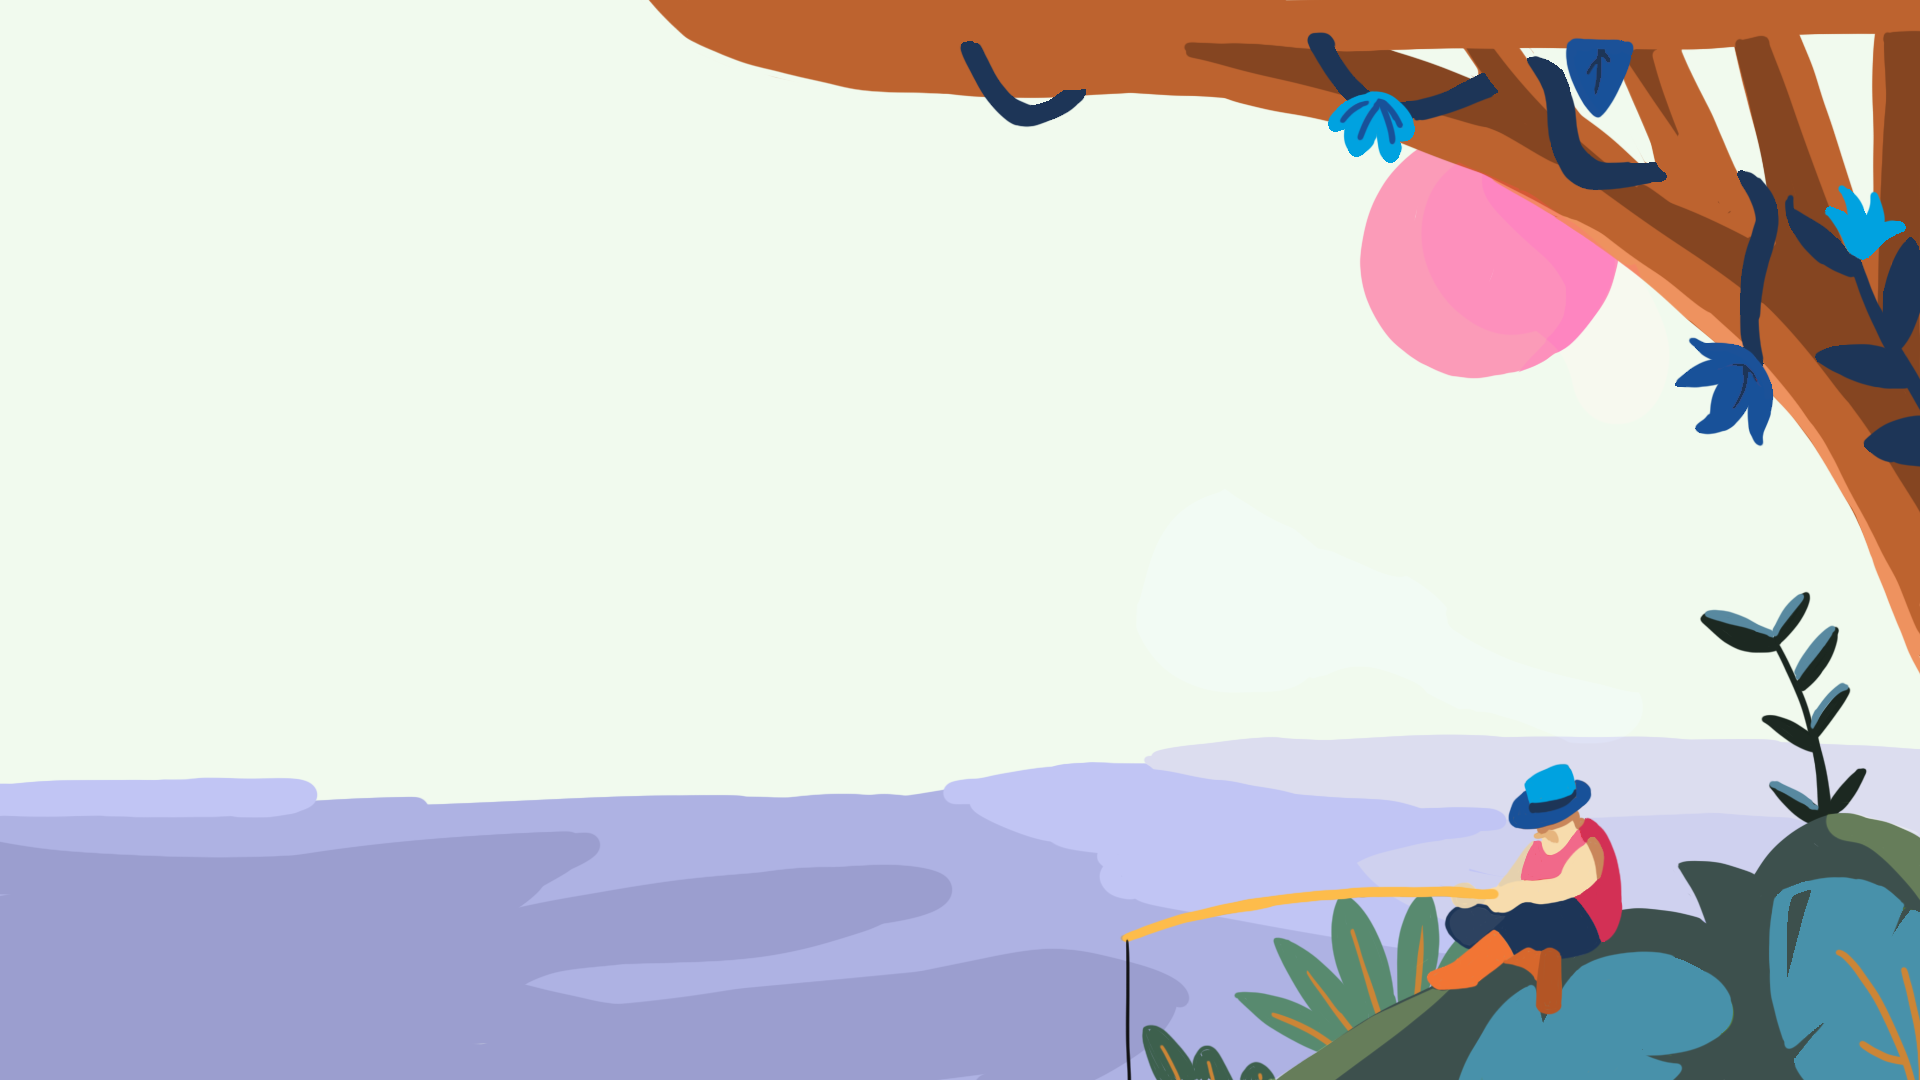
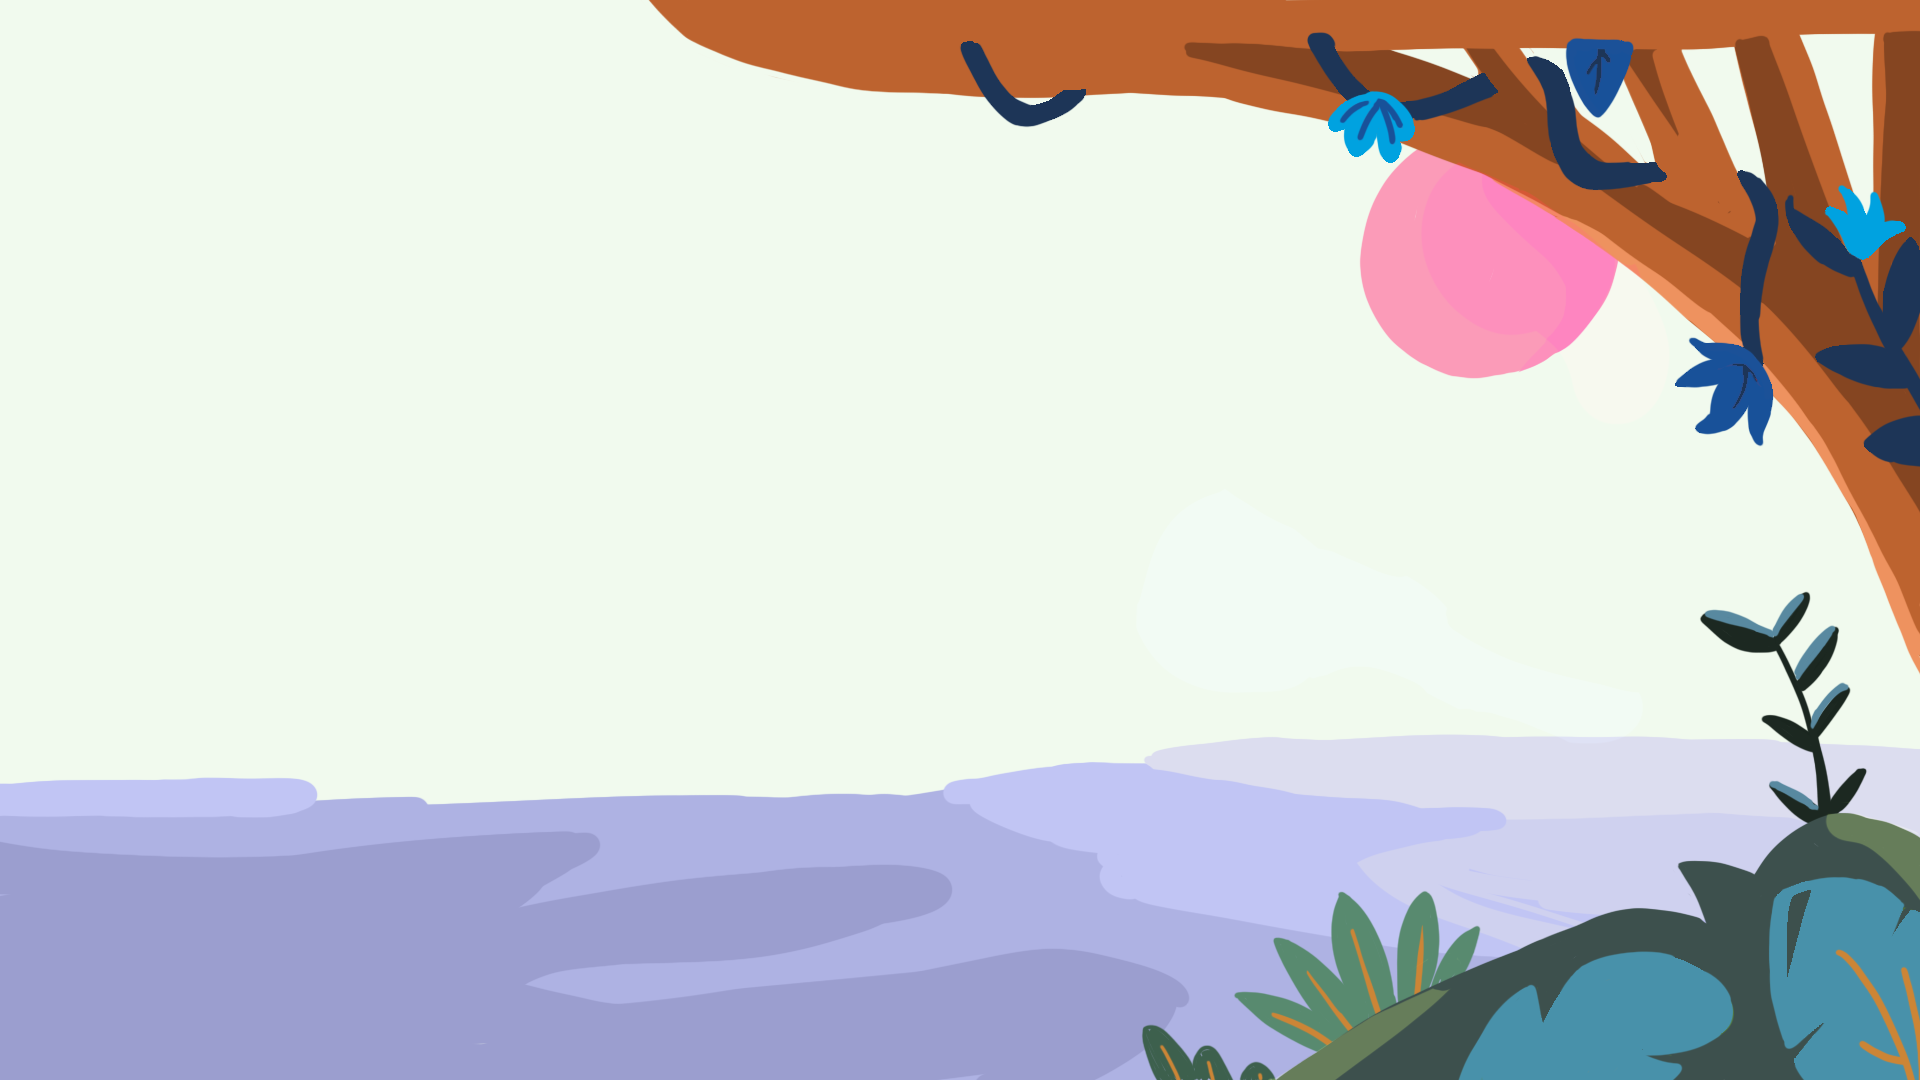
index ani

Changed region(s): [[0.5625, 0.7028, 0.8438, 0.9472]]

diff --git a/src/components/home/home-3vh/ThirdFloor.js b/src/components/home/home-3vh/ThirdFloor.js
@@ -1,9 +1,13 @@
 import React, { PureComponent } from 'react'
-import { Title, ActivityWrapper } from './styled'
+import { Title, ActivityWrapper, Fishing } from './styled'
 
 import ActivityOne from './activity/ac-one/ActivityOne';
 import ActivityTwo from './activity/ac-two/ActivityTwo';
 import ActivityThree from './activity/ac-three/ActivityThree';
+//conversation
+import Conversation from './conversation/Conversation';
+//fishing
+import fishing from '../../../assets/img/homepage-ani/fishing.png';
 
 
 export default class ThirdFloor extends PureComponent {
@@ -18,7 +22,13 @@ export default class ThirdFloor extends PureComponent {
                   <ActivityOne />
                   <ActivityTwo />
                   <ActivityThree />
-              </ActivityWrapper>  
+              </ActivityWrapper> 
+                <Conversation/>
+              <div>
+                <Fishing>
+                    <img src={fishing} alt="fishing"/>
+                </Fishing>
+              </div> 
                                   
             </>
         )

diff --git a/src/components/home/home-3vh/conversation/Conversation.js b/src/components/home/home-3vh/conversation/Conversation.js
@@ -1,0 +1,30 @@
+import React from "react";
+import { useSpring, animated as a } from "react-spring";
+
+import "./styled.css";
+
+const Conversation = () => {
+  const [greetingStatus, displayGreeting] = React.useState(false);
+  const contentProps = useSpring({
+    opacity: greetingStatus ? 1 : 0,
+    marginTop: greetingStatus ? 0 : -500
+  });
+  return (
+    <div className="conversationWrapper">
+      <div className="button-container">
+        <button onClick={() => displayGreeting(a => !a)} className="button">
+          Click Here
+        </button>
+      </div>
+      {!greetingStatus ? (
+        <div className="Intro">Click button below</div>
+      ) : (
+        <a.div className="box" style={contentProps}>
+          <h1>嗨 ! 今天真是適合出遊的日子...</h1>
+        </a.div>
+      )}
+    </div>
+  );
+};
+
+export default Conversation;

diff --git a/src/components/home/home-3vh/conversation/styled.css b/src/components/home/home-3vh/conversation/styled.css
@@ -1,0 +1,41 @@
+.box {
+  width: 20vw;
+  background: white;
+  border-radius: 20px;
+  box-shadow: 5px 5px 5px #bbbbbb;
+  -webkit-box-shadow: 5px 5px 5px #bbbbbb;
+  -moz-box-shadow: 5px 5px 5px #bbbbbb;
+}
+
+.box > h1 {
+  font-size: 1.1vw;
+  font-weight: 900;
+  margin: 0 0 1rem 0;
+  padding-top: 15px;
+  text-align: center;
+  /* border: solid 1px; */
+  border-radius: 5px;
+  height: 100px;
+}
+.conversationWrapper {
+  top: 50%;
+  left: 65%;
+  width: 100%;
+  height: 20%;
+  position: absolute;
+}
+.Intro {
+  font-size: 20px;
+}
+
+.button {
+  background: #457B9D;
+  border: 0;
+  padding: 10px;
+  color: white;
+  border-radius: 8px;;
+}
+.button-container {
+  position: absolute;
+  bottom: 0;
+}

diff --git a/src/components/home/home-3vh/styled.js b/src/components/home/home-3vh/styled.js
@@ -1,5 +1,6 @@
 import styled from '@emotion/styled';
 import thirdBg from '../../../assets/img/3vh-merge.png';
+import { keyframes } from '@emotion/react'
 
 //title part css
 export const ThirdBackground = styled.div`
@@ -43,3 +44,27 @@ export const ActivityWrapper = styled.div`
   flex-direction: column;
   position: absolute;
 `
+const swing = keyframes`
+  from {
+    transform: rotate(-3deg)
+  }
+
+  to {
+    transform: rotate(5deg)
+  }
+
+`
+
+export const Fishing = styled.figure`
+  position: absolute;
+  width: 26vw;
+  margin: 0;
+  left: 65vw;
+  top: 78vh;
+  transform-origin: bottom right;
+  animation: ${swing} 4s ease-out infinite alternate-reverse;
+  img {
+      width: 100%;
+  }
+`
+

diff --git a/src/pages/IndexPage.js b/src/pages/IndexPage.js
@@ -15,11 +15,12 @@ import FiveFloor from '../components/home/home-5vh/FiveFloor';
 
 
 function App() {
+  
   return (
     <ScrollContainer>
       <ScrollSection pageId={0}>
         <FirstBackground />
-        <FirstFloor />
+        <FirstFloor/>
       </ScrollSection>
  
       <ScrollSection pageId={1}>
@@ -39,6 +40,7 @@ function App() {
 
       <ScrollSection pageId={4}>
         <FiveFloor/>
+        <FifthBackground />
       </ScrollSection>
     </ScrollContainer>
   );

diff --git a/src/components/home/home-2vh/gift/Gift.js b/src/components/home/home-2vh/gift/Gift.js
@@ -85,11 +85,11 @@ function Money() {
           </animated.div>
           <animated.p style={{
               paddingTop: '2vh',
-              fontSize: "1.8vw",
+              fontSize: "1.6vw",
               fontWeight: 900,
               ...props
             }} >
-            恭喜您獲得了100元折價券
+            恭喜您獲得了100元折價券<br/>歡迎每周二來領取獎勵喔
           </animated.p>
         </>
     

diff --git a/src/components/home/home-2vh/SecondFloor.js b/src/components/home/home-2vh/SecondFloor.js
@@ -12,6 +12,7 @@ import Gift from './gift/Gift';
 
 
 export default class SecondFloor extends PureComponent {
+    
     render() {
         return (
             <Fragment>
